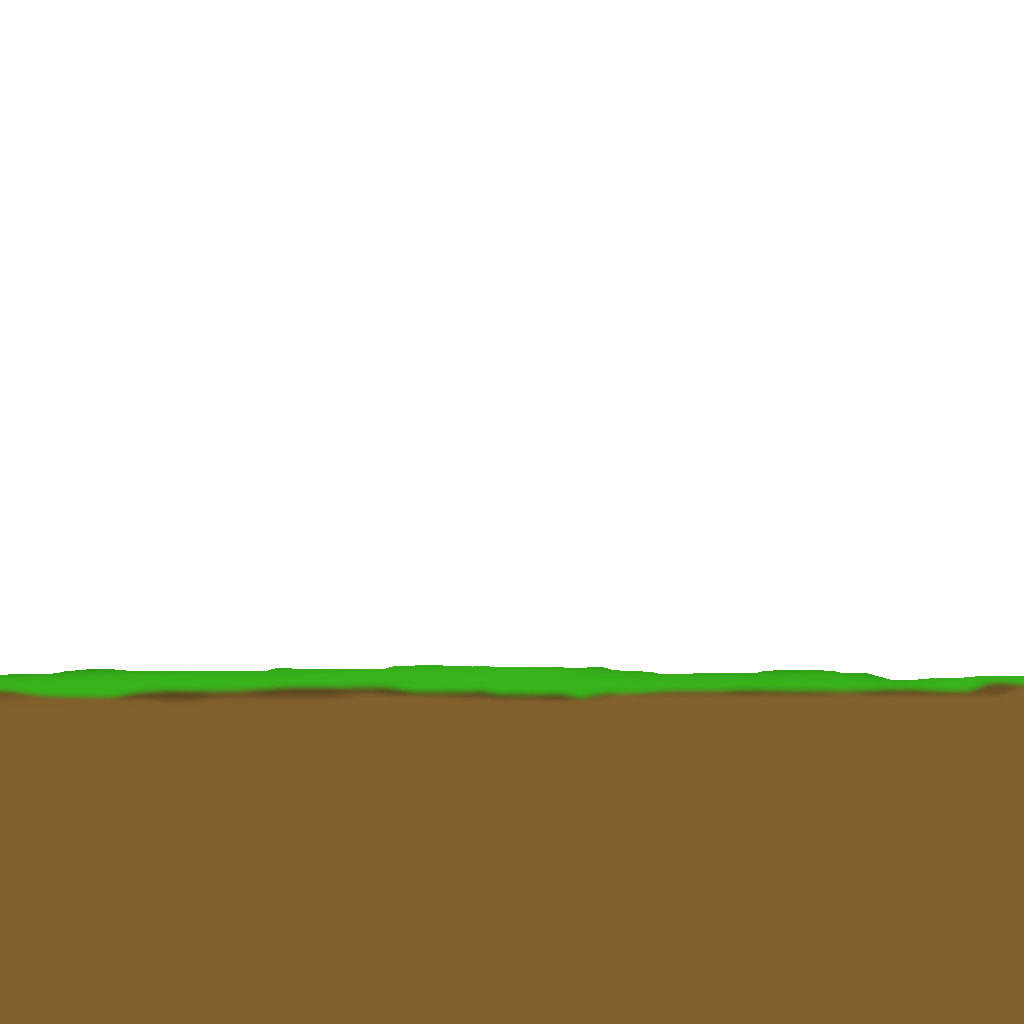
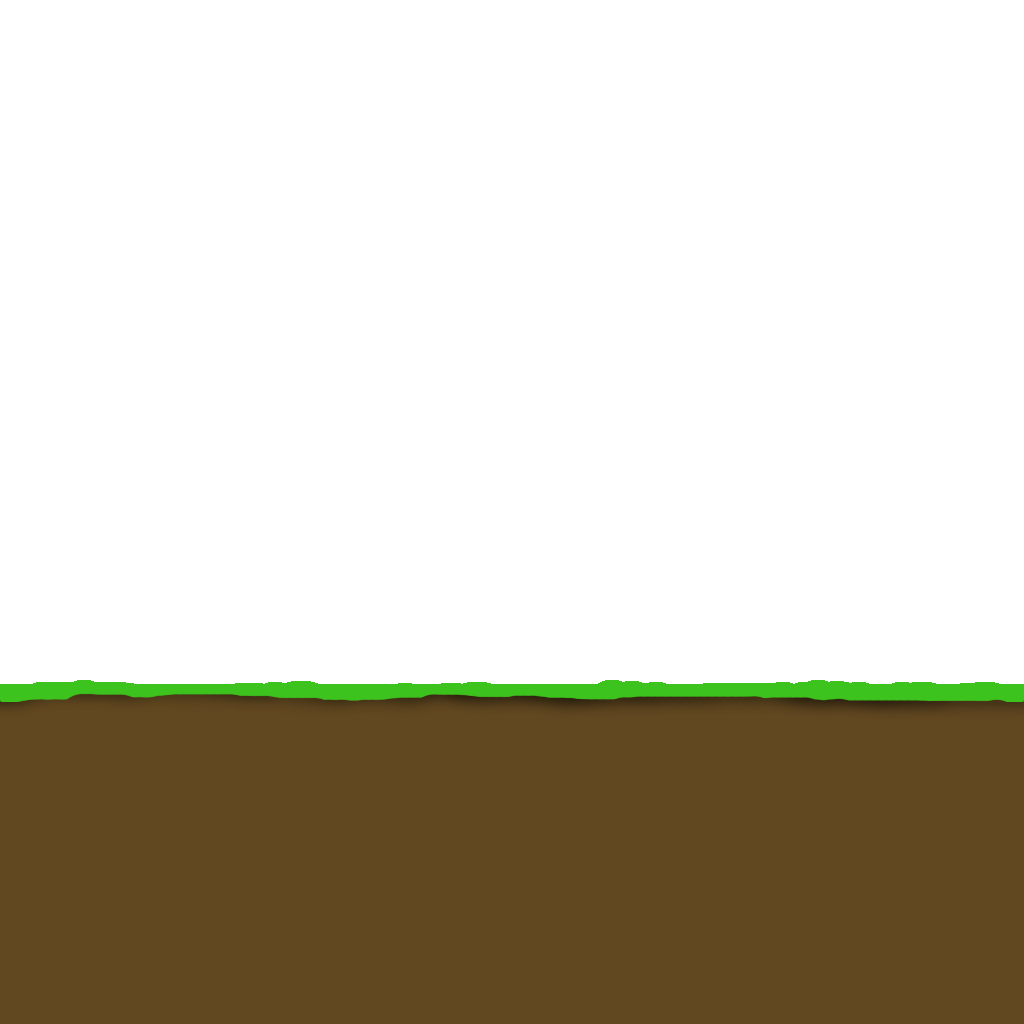
Update graphics
- Brighten some of the graphic colors
- Add the venus flytrap
- Change the spider

diff --git a/js/play.js b/js/play.js
@@ -143,7 +143,7 @@ Game.Play.prototype = {
   },
 
   createTopBarrier: function(x, passageMid, passageHeight) {
-    var barrier = game.add.sprite(0, 0, 'spiderTop');
+    var barrier = game.add.sprite(0, 0, 'barrierTop');
     barrier.anchor.setTo(0,1);
     barrier.x = x;
     barrier.y = passageMid - passageHeight / 2.0;
@@ -153,7 +153,7 @@ Game.Play.prototype = {
   },
 
   createBottomBarrier: function(x, passageMid, passageHeight) {
-    var barrier = game.add.sprite(0, 0, 'spiderBottom');
+    var barrier = game.add.sprite(0, 0, 'barrierBottom');
     barrier.x = x;
     barrier.y = passageMid + passageHeight / 2.0;
     barrier.body.immovable = true;

diff --git a/js/load.js b/js/load.js
@@ -42,8 +42,8 @@ Game.Load.prototype = {
     game.load.image('plants', 'assets/graphics/bumblebee_hearts.png');
     game.load.image('startBtn', 'assets/graphics/bumblebee_beehive.png');
     game.load.image('bee', 'assets/graphics/bumblebee.png');
-    game.load.image('spiderTop', 'assets/graphics/bumblebee_spider_upside_down.png');
-    game.load.image('spiderBottom', 'assets/graphics/bumblebee_spider.png');
+    game.load.image('barrierTop', 'assets/graphics/bumblebee_spider_new.png');
+    game.load.image('barrierBottom', 'assets/graphics/bumblebee_flytrap.png');
     game.load.audio('song', 'assets/sounds/fotb-grand-piano.mp3');
   },
 
